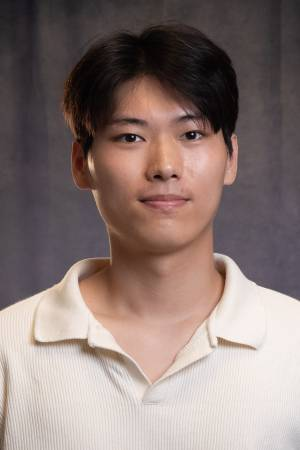
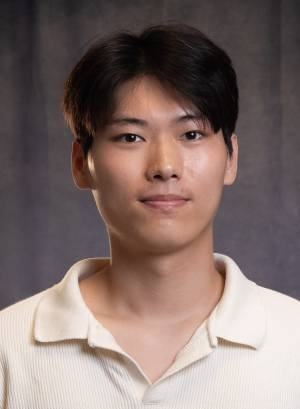
fixing photo of speaker that isn't loading

diff --git a/corl2025/index.html b/corl2025/index.html
@@ -9,7 +9,7 @@
 
   <meta name="viewport" content="width=device-width, initial-scale=1.0">
   <meta charset="utf-8">
-  <title>Dexterous Manipulation: Learning and Control with Diverse Modalities</title>
+  <title>4th Workshop on Dexterous Manipulation: Learning and Control with Diverse Modalities</title>
   <link rel="stylesheet" href="css/style.css">
 </head>
 
@@ -27,10 +27,10 @@
 
 <div class="title-container">
   <div style="text-align: center;">
-    <h1>Dexterous Manipulation: <br> Learning and Control with Diverse Modalities</h1>
+    <h1>4th Workshop on Dexterous Manipulation: <br> Learning and Control with Diverse Modalities</h1>
     <div class="subtitle" style="color: #ccc; margin: 20px">
       <!-- CoRL 2024 Workshop, November 9, 2024 -->
-      CoRL 2025 Workshop 9/27/2025
+      CoRL 2025 Workshop, 9/27/2025
     </div>
      <div class="subtitle" style="color: #ccc; margin: 20px">
        <!-- <a href="https://www.youtube.com/watch?v=rtHeKZJEzSg"> [Workshop Video Recording] </a> -->
@@ -108,7 +108,7 @@
         <div class="aff">KAIST</div>
       </a>
       <a href="http://lucasmanuelli.com/">
-        <img src="http://lucasmanuelli.com/img/lucas_paris.png">
+        <img src="./images/lucas_paris.png">
         <div>Lucas Manuelli</div>
         <div class="aff">Boston Dynamics</div>
       </a>
@@ -164,7 +164,7 @@
     <h3>Submission Guidelines</h3>
         <ul>
           <li><b style="color: darkblue">Submission Portal for Paper and Demo:</b> <a
-              href="https://openreview.net/"
+              href="https://openreview.net/group?id=robot-learning.org/CoRL/2025/Workshop/Dexterous_Manipulation"
               target="_blank">OpenReview</a>
           </li>
           <li><b style="color: darkblue">Paper Submission Guideline:</b></li>
